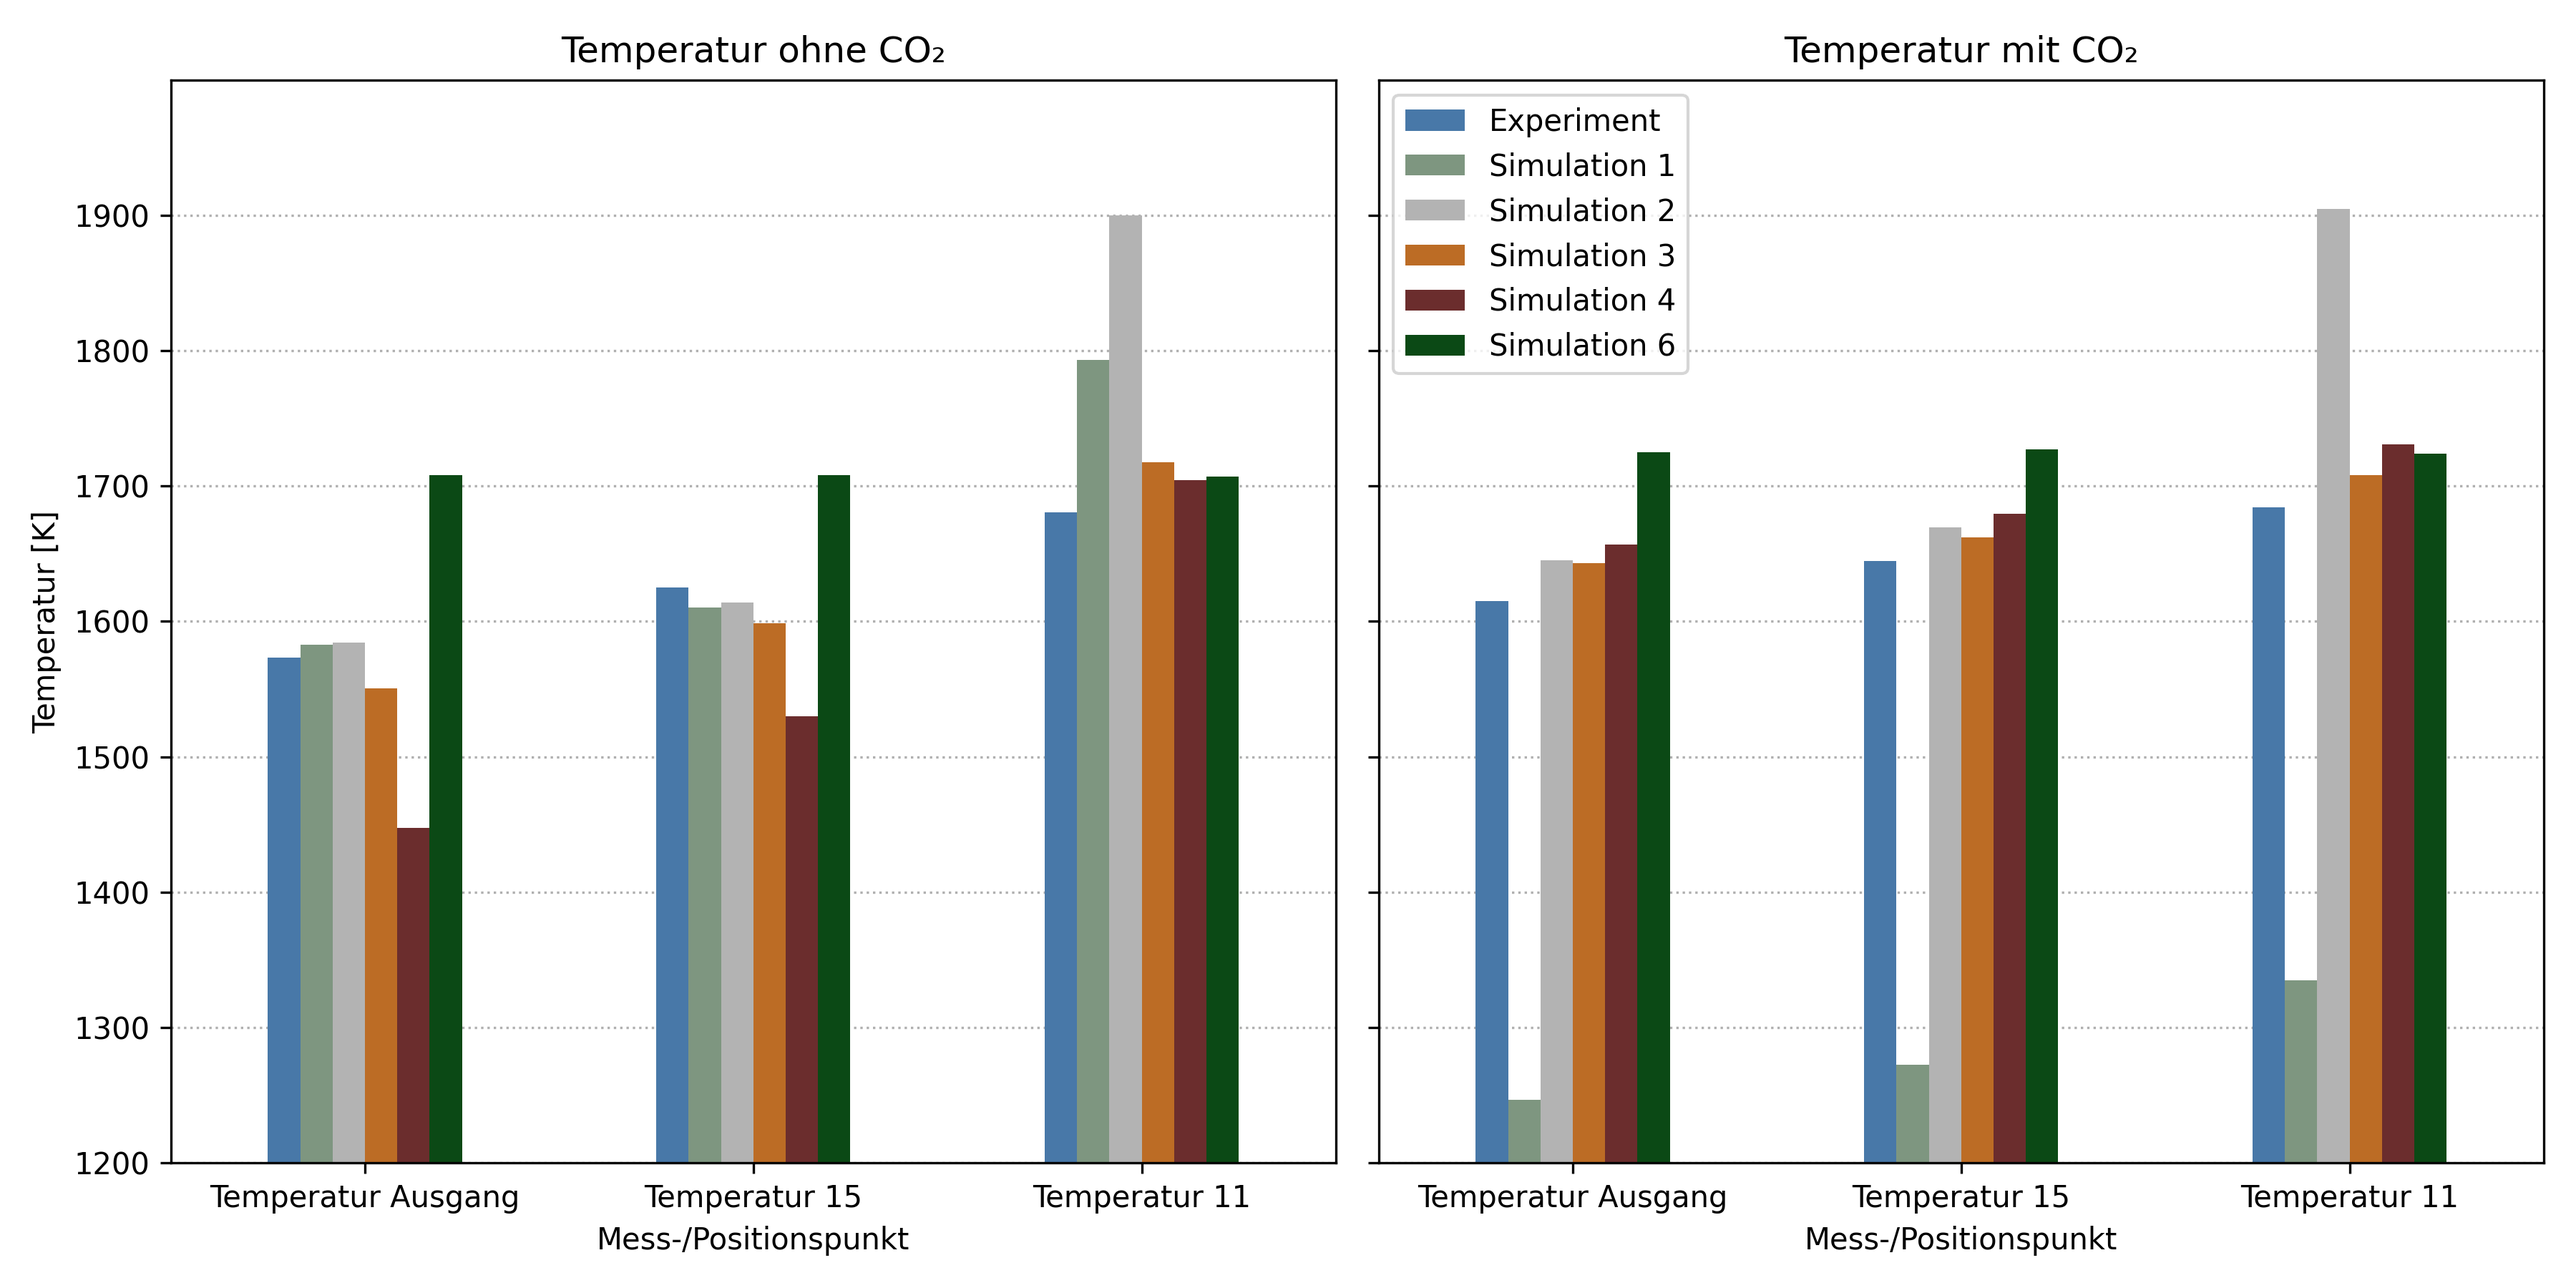
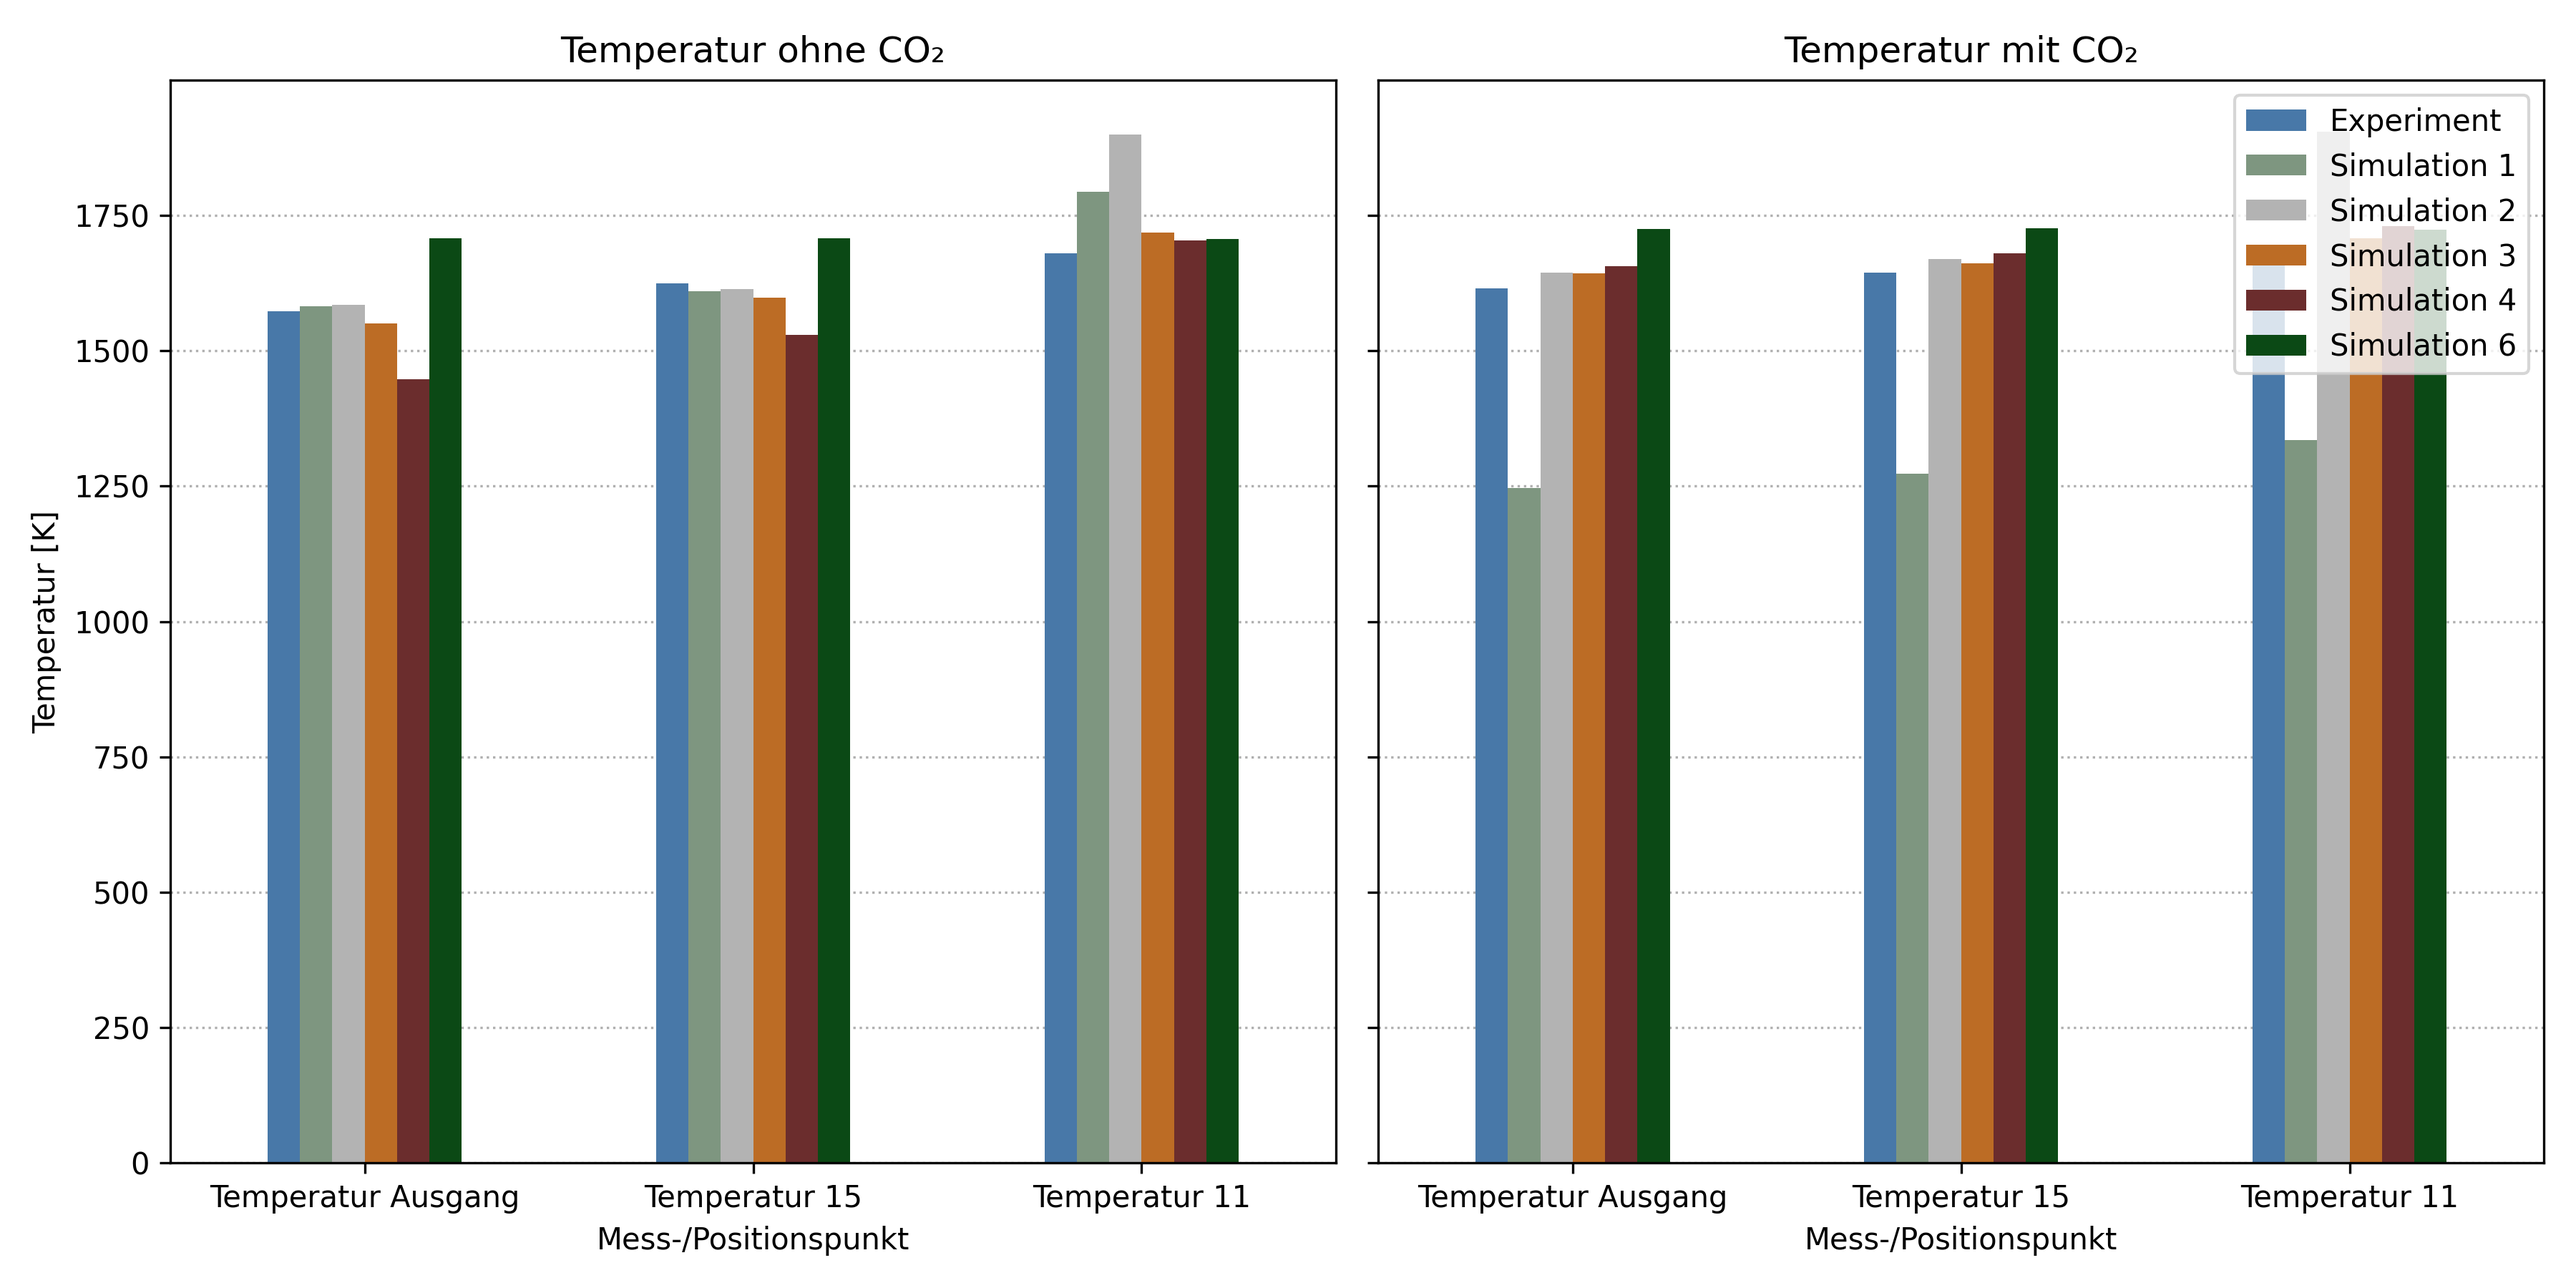
Diagramm start bei null

diff --git a/Scripts/Auswertungen/Erweiterungen/Auswertung_Erweiterung.py b/Scripts/Auswertungen/Erweiterungen/Auswertung_Erweiterung.py
@@ -444,7 +444,7 @@ if not handles:
 else:
     axes[-1].legend(labels, loc="best")
 
-plt.ylim(1200)
+plt.ylim(0)
 
 plt.tight_layout()
 plt.savefig("Bilder/Vergleich_Temperaturen.png", dpi=300)
